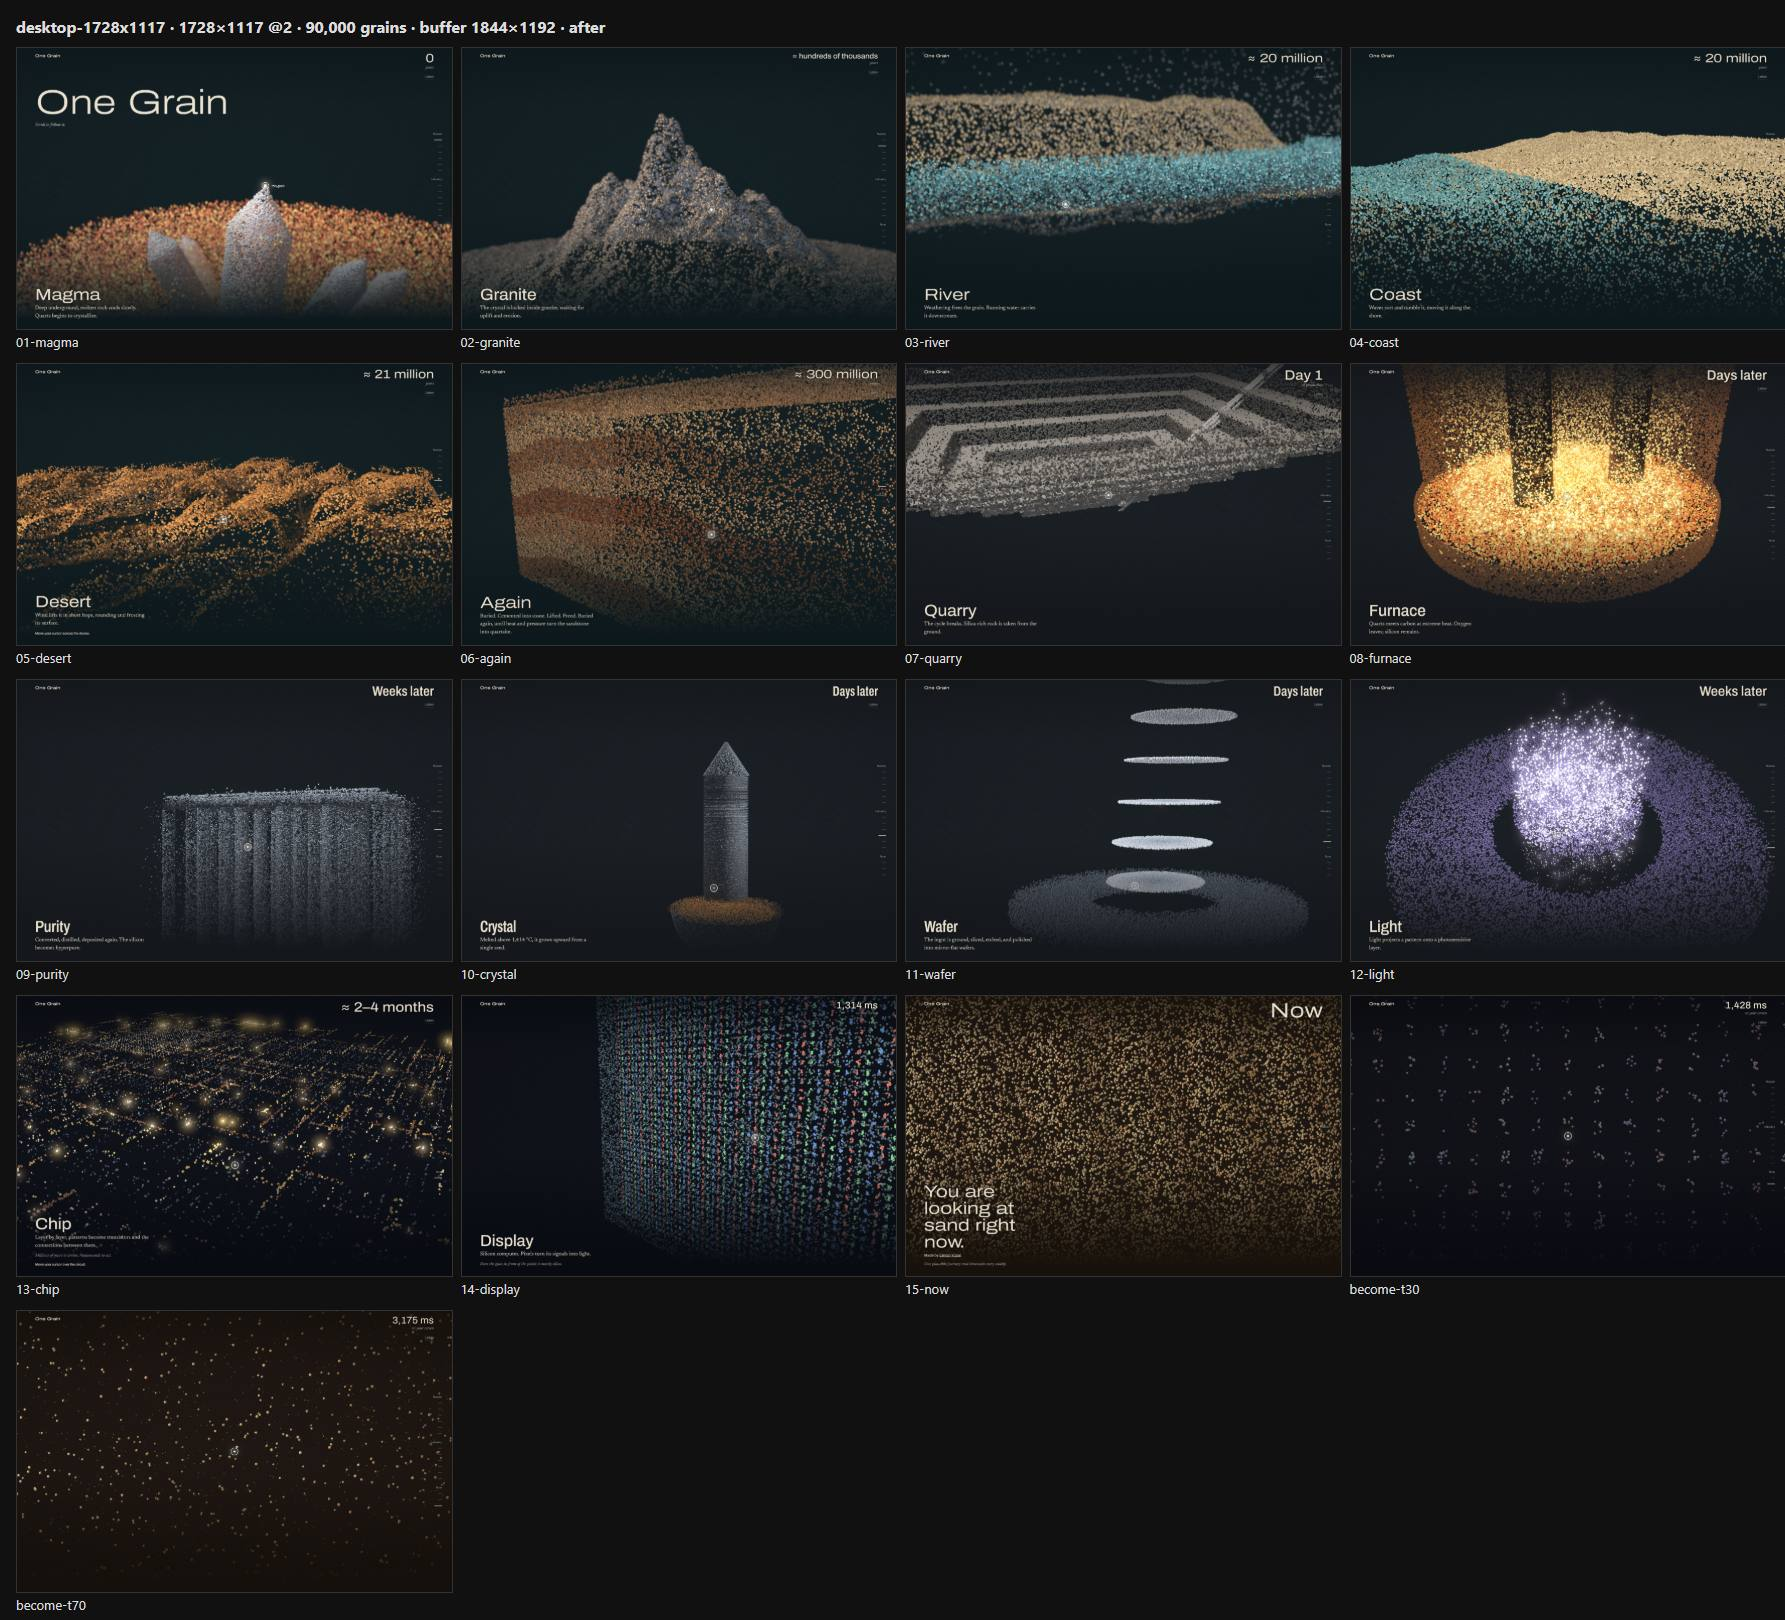
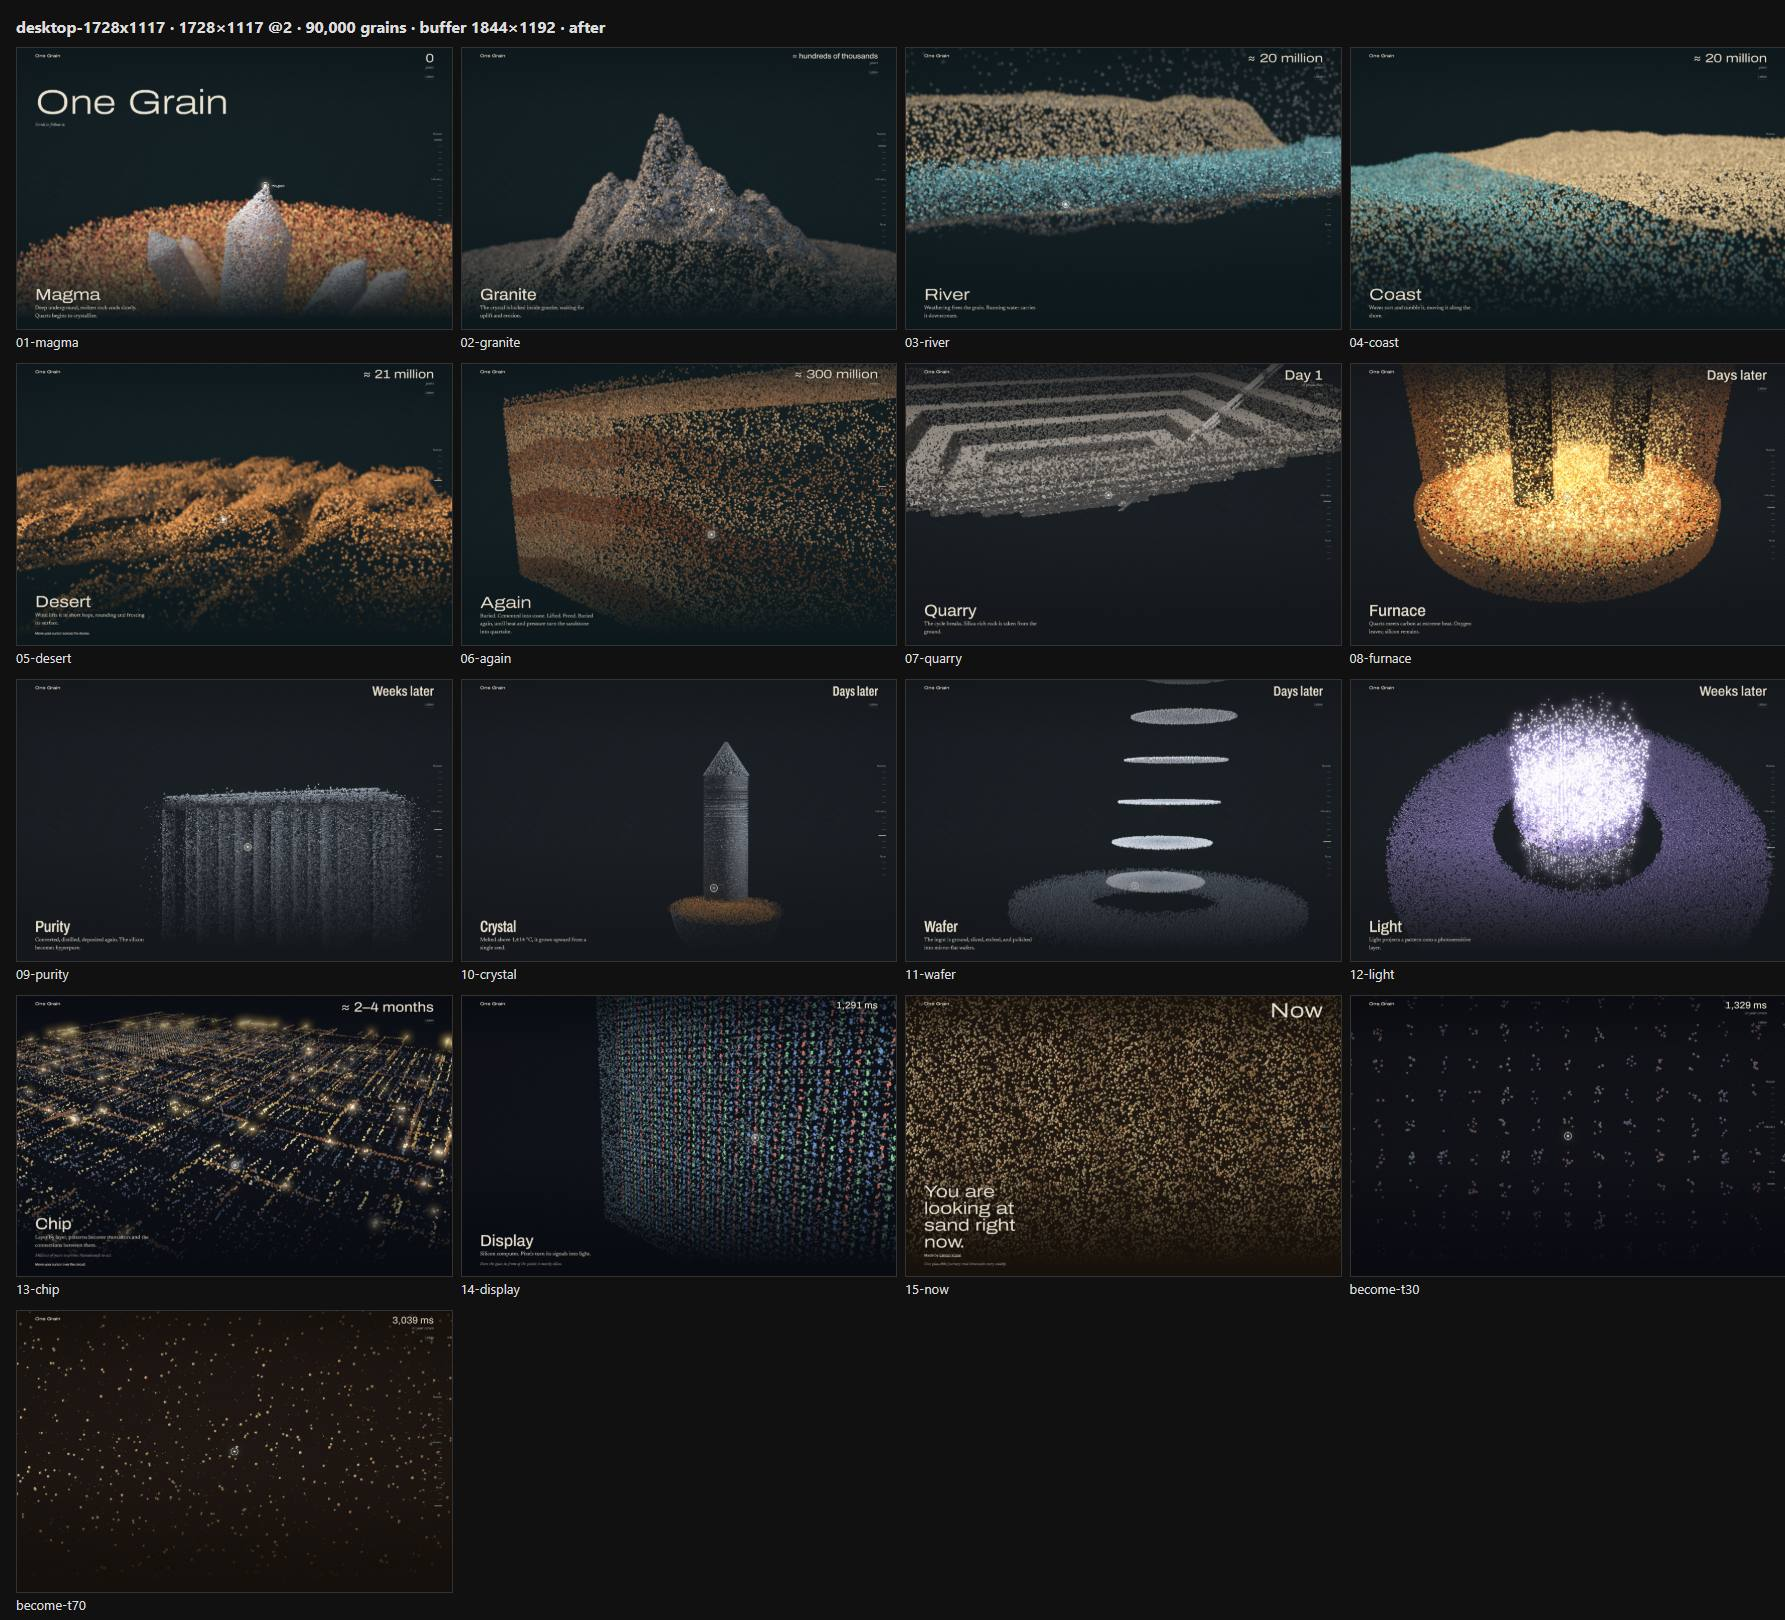
Responsive decisions: after sheets, 21:9 before/after, report
The after sheets now show the phone rail as an indicator, phones on low (the landscape phone
included), and the lowered look target at 2560×1080. docs/responsive/21x9/ has the 2560×1080
sheet with the clamp only and with the look lowered; the report records each decision, what the
21:9 rule improves and worsens per world, and the stale-matrix bug found on the way.

diff --git a/docs/responsive/README.md b/docs/responsive/README.md
@@ -33,7 +33,7 @@ Regenerate with `npm run responsive <label> [viewport]`; check with `npm run che
 | Apple Silicon | Started on mid | "Apple M…" / "Apple GPU" on a Mac (not an iPad) with ≥ 8 cores starts on high |
 | Pixel budget | 2116×1374 at 1512×982 @2 (2.9 MP on mid) | low 1.5 MP, mid 2.2 MP, high 4.5 MP, whatever the DPR |
 | Mobile browser bars | A bar resized the canvas and refreshed ScrollTrigger | Canvas sized to the largest viewport (lvh), dynamic units for the scrims; height-only resizes under 120 px rebuild and refresh nothing (ScrollTrigger's own rule only ignores changes under 25 %, less than a landscape phone's bar) |
-| Touch targets | Sound button ~20 px high, rail ticks 3–22 px | Sound button 44×44 px; rail buttons 44 px wide (height: see decisions) |
+| Touch targets | Sound button ~20 px high, rail ticks 3–22 px | Sound button 44×44 px; rail buttons 44 px wide on tablets and desktops (phones: no buttons, see decisions) |
 
 ## Timings at DPR 2 (pixel budget in effect)
 
@@ -54,23 +54,42 @@ Regenerate with `npm run responsive <label> [viewport]`; check with `npm run che
 A first run of these measurements came right after the 15-minute matrix, with the GPU throttled
 (mid 29–30 ms at both sizes). Re-measured once it had recovered; those numbers are above.
 
-## Needs a design decision (screenshots in the sheets above)
+## Decisions (after the first report)
 
-1. **The rail on phones.** Under 720 px wide the rail shows ticks only, and its buttons are 3–6 px
-   tall (22 px on tablets). They are 44 px wide now, but 15 chapters at 44 px do not fit a phone's
-   height. Options:
-   - only the three acts as targets on phones;
-   - the progress line (as on short screens) on all phones, perhaps as a scrubber;
-   - spread the ticks over the full height (about 30 px each at 667 px);
-   - keep it as a position indicator only (scrolling, keys and the article navigate).
-2. **The landscape phone picks the mid tier.** 844×390 starts with 90 000 grains, because the tier
-   follows the window width (760 px). Phones in landscape could start on low (for example by the
-   shorter side, or touch with a short side under 500 px).
-3. **21:9 framing.** With the clamp, wider screens crop top and bottom. Some worlds now have empty
-   ground in the lower part (river, desert, chip; see the 2560×1080 sheet). Each world's framing
-   (look offset) could be tuned for very wide screens.
-4. **The pixel budget at DPR 1.** On large DPR-1 screens the budget also applies: 2560×1080 renders
-   2283×963 (0.89×), upscaled. Alternative: never go below DPR 1 (2.76 MP at 2560×1080).
+The "after" sheets above include these.
+
+1. **The rail on phones: an indicator only.** On touch phones (coarse pointer, narrower than 720 px
+   or shorter than 560 px) the rail is the thin progress line at the right edge, with a faint mark
+   where one act gives way to the next (the middle of the transition between them), and no buttons.
+   Phones navigate by scrolling; screen readers keep the article (the emptied nav is aria-hidden
+   there). Short screens without touch keep the line and the marks, and their buttons come back
+   while focused. Tablets keep the rail with 44 px wide buttons.
+2. **Tier by device.** The starting tier follows the screen's shorter side (under 760 px: low), so
+   844×390 starts on low, like the same phone upright. The tier is picked once per visit; turning a
+   phone or resizing the window never changes it (checked on every phone viewport). A desktop window
+   narrower than 760 px no longer starts on low by itself.
+3. **21:9: one global rule.** Past 2:1 the camera's look target goes down in proportion to
+   (aspect − 2): by (aspect − 2)/2 of the visible half-height, which keeps the 2:1 frame's bottom edge
+   (nearly) where it was, so the crop comes from the top. 2560×1080, clamp only vs. look lowered:
+   [before](21x9/before-clamp-only.jpg) · [after](21x9/after-look-lowered.jpg).
+   - Better: crystal, wafer and purity sit lower with their bases in view; magma shows more of its
+     crystals.
+   - Worse: river, desert and quarry move up and leave more empty ground below them (the empty
+     lower areas from the first report grow); quarry, the furnace's electrodes and the light column
+     are cut at the top.
+   - Per-world tweaks not made: waiting for a decision.
+4. **Pixel budget.** On high the budget never takes the pixel ratio below 1 (a 4K screen at DPR 1
+   renders all 8.3 MP; Retina screens still come down to the budget, not below DPR 1). Low and mid
+   are unchanged (2560×1080 on mid: 2283×963).
+
+## Found on the way
+
+With the lowered look target the ring sat about 100 px below the grain at 21:9, while
+`check:responsive` still passed. three.js's `lookAt` refreshes the camera's world matrix before it
+turns the camera, so after the second `lookAt` every projection that frame (the ring and the
+check's `window.__hero`) used the view before the turn. `frameShot` now refreshes the matrix at the
+end, and the check measures the ring against `window.__heroRendered`, the grain projected after
+rendering through the matrices the frame was drawn with, so it no longer shares the loop's path.
 
 ## Not verifiable here
 
